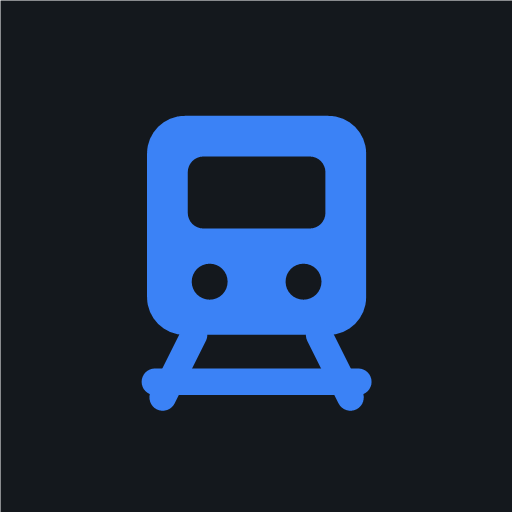
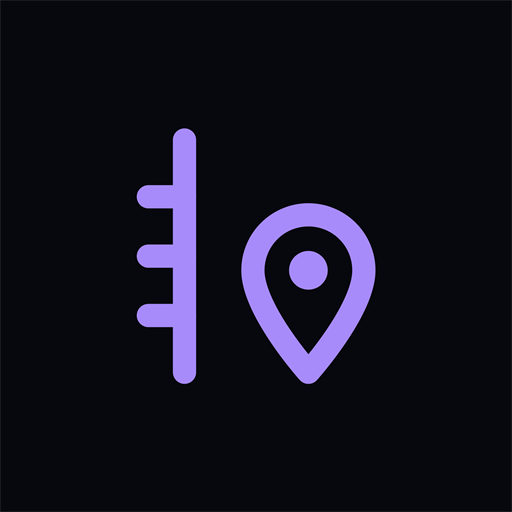
Aus Railnav wird TrackPilot
Geo++ vertreibt unter db.geopp.de ein kommerzielles Produkt namens RaiLNav
(Android-App und Web-Dienst fuer das Netz der DB InfraGO). Damit diese App
nicht wie eine Kopie davon aussieht, heisst sie ab jetzt TrackPilot; Repo,
Pages-Pfad, Manifest, Titel und Cache-Namen ziehen mit.

Drei Bezeichner behalten den alten Namen, weil sie an gespeicherten
Nutzerdaten haengen und die am Origin liegen, nicht am Pfad: der alte
localStorage-Schluessel (wird beim ersten Start uebernommen), die
IndexedDB mit den importierten KML-Dateien, und der Cache-Praefix, damit
der alte Bestand ueberhaupt noch aufgeraeumt werden kann.

Das App-Icon nimmt jetzt das Kachel-Motiv der Uebersichtsseite auf --
Kilometerstein und Markierung statt des Zuges, damit Kachel und
Startbildschirm dasselbe zeigen. icon.svg ist die Vorlage, make-icons.ps1
rasterisiert daraus die PNGs.

Changed region(s): [[0.25, 0.2188, 0.75, 0.8125], [0.0, 0.0, 0.0312, 0.0312]]

diff --git a/app.js b/app.js
@@ -1,4 +1,4 @@
-/* Railnav — Streckenkilometer auf der Karte
+/* TrackPilot — Streckenkilometer auf der Karte
  *
  * Zwei Richtungen:
  *   Strecke + km  → Position   (OpenRailwayMap-API, dazwischen wird interpoliert)
@@ -91,7 +91,10 @@ const LIVE_MIN_WEG = 5;
  * Aus den Kacheln lassen sich die Punkte ohnehin der Strecke zuordnen, auf der
  * sie stehen; damit ist der weite Radius unbedenklich. */
 const SEED_RADIUS = 12000;
-const STORE_KEY = 'railnav.v3';
+const STORE_KEY = 'trackpilot.v3';
+/* Vorgaengername der App. Wird beim ersten Start uebernommen, damit
+ * Einstellungen und Verlauf die Umbenennung ueberleben. */
+const STORE_KEY_ALT = 'railnav.v3';
 
 /* Mehrere Instanzen, weil einzelne zeitweise ausfallen: Die Hauptinstanz war
  * zwischenzeitlich aus dem Testnetz gar nicht erreichbar (HTTP 406), kumi hat
@@ -1896,6 +1899,9 @@ function wmsLogin() {
  *
  * Die Dateien bleiben auf dem Gerät, es wird nichts hochgeladen. */
 
+/* Bewusst beim alten Namen belassen: die Datenbank haengt am Origin, nicht am
+ * Pfad. Ein neuer Name wuerde die bereits importierten KML-Dateien verwaisen
+ * lassen, ohne dass der Nutzer etwas davon haette. */
 const KML_DB = 'railnav-kml';
 /* Reihum vergeben, damit sich mehrere Dateien ohne eigene Farbangabe
  * voneinander unterscheiden. */
@@ -4707,7 +4713,8 @@ function liveLeiste() {
 
 function loadStore() {
   try {
-    const raw = JSON.parse(localStorage.getItem(STORE_KEY) || '{}');
+    const roh = localStorage.getItem(STORE_KEY) || localStorage.getItem(STORE_KEY_ALT);
+    const raw = JSON.parse(roh || '{}');
     const wms = { ...prefs.wms, ...((raw.prefs && raw.prefs.wms) || {}) };
     prefs = { ...prefs, ...(raw.prefs || {}), wms };
     recent = Array.isArray(raw.recent) ? raw.recent : [];
@@ -4715,7 +4722,10 @@ function loadStore() {
 }
 
 function saveStore() {
-  try { localStorage.setItem(STORE_KEY, JSON.stringify({ prefs, recent })); } catch { /* voll oder gesperrt */ }
+  try {
+    localStorage.setItem(STORE_KEY, JSON.stringify({ prefs, recent }));
+    localStorage.removeItem(STORE_KEY_ALT);   // ab jetzt nur noch der neue Schluessel
+  } catch { /* voll oder gesperrt */ }
 }
 
 function pushRecent(ref, km) {
@@ -4836,7 +4846,7 @@ async function share() {
     ? `Strecke ${view.ref} · ${reihe.length} Kilometer`
     : view.point && view.km != null
       ? `Strecke ${view.ref} km ${fmtKm(view.km)}`
-      : 'Railnav';
+      : 'TrackPilot';
   if (navigator.share) {
     try { await navigator.share({ title, text: title, url }); return; }
     catch { /* abgebrochen — dann kopieren */ }

diff --git a/sw.js b/sw.js
@@ -1,16 +1,21 @@
-/* Railnav — Service Worker
+/* TrackPilot — Service Worker
  *
  * Ziel: Die App startet auch ohne Netz, und bereits angesehene Kartenkacheln
  * bleiben sichtbar. Für alles Eigene gilt "erst Netz, dann Cache", damit eine
  * neue Version sofort ankommt statt hinter einem alten Cache zu hängen.
  */
 
-const VERSION = 'v21';
-const SHELL = `railnav-shell-${VERSION}`;
-const TILES = `railnav-tiles-${VERSION}`;
-const DATA = `railnav-data-${VERSION}`;
-const NETZ = `railnav-netz-${VERSION}`;
+const VERSION = 'v22';
+const SHELL = `trackpilot-shell-${VERSION}`;
+const TILES = `trackpilot-tiles-${VERSION}`;
+const DATA = `trackpilot-data-${VERSION}`;
+const NETZ = `trackpilot-netz-${VERSION}`;
 const KEEP = [SHELL, TILES, DATA, NETZ];
+
+/* Die App hiess bis zur Umbenennung "Railnav" und lag unter /railnav/. Die
+ * Caches von damals liegen auf derselben Herkunft und wuerden sonst ewig
+ * liegenbleiben - deshalb wird der alte Praefix hier mit aufgeraeumt. */
+const ALT_PRAEFIX = 'railnav-';
 
 const SHELL_FILES = [
   './', 'index.html', 'style.css', 'app.js',
@@ -40,7 +45,9 @@ self.addEventListener('install', event => {
 self.addEventListener('activate', event => {
   event.waitUntil((async () => {
     const names = await caches.keys();
-    await Promise.all(names.filter(n => n.startsWith('railnav-') && !KEEP.includes(n)).map(n => caches.delete(n)));
+    await Promise.all(names
+      .filter(n => (n.startsWith('trackpilot-') || n.startsWith(ALT_PRAEFIX)) && !KEEP.includes(n))
+      .map(n => caches.delete(n)));
     await self.clients.claim();
   })());
 });

diff --git a/index.html b/index.html
@@ -3,7 +3,7 @@
 <head>
 <meta charset="UTF-8">
 <meta name="viewport" content="width=device-width, initial-scale=1.0, viewport-fit=cover">
-<title>Railnav — Streckenkilometer auf der Karte</title>
+<title>TrackPilot — Streckenkilometer auf der Karte</title>
 <meta name="description" content="Streckennummer und Kilometer eingeben, Position auf der Karte sehen, per Klick auf die Karte den Kilometer ablesen und in Google Maps öffnen.">
 <meta name="theme-color" content="#14181d">
 <meta name="color-scheme" content="dark light">
@@ -11,7 +11,7 @@
 <link rel="icon" href="icon.svg" type="image/svg+xml">
 <link rel="apple-touch-icon" href="icons/icon-180.png">
 <meta name="apple-mobile-web-app-capable" content="yes">
-<meta name="apple-mobile-web-app-title" content="Railnav">
+<meta name="apple-mobile-web-app-title" content="TrackPilot">
 <link rel="stylesheet" href="vendor/leaflet.css">
 <link rel="stylesheet" href="style.css">
 </head>
@@ -231,7 +231,7 @@
       <p class="fine">Daten © OpenStreetMap-Mitwirkende · Abfrage über die OpenRailwayMap-API ·
       Bahn-Layer OpenRailwayMap (CC-BY-SA 2.0) · Luftbild Esri · DOP20, Geländerelief und
       Parzellarkarte: Bayerische Vermessungsverwaltung (CC BY 4.0)</p>
-      <p class="fine"><a href="https://github.com/steidlmichael2000-stack/railnav" target="_blank" rel="noopener">Quellcode auf GitHub</a></p>
+      <p class="fine"><a href="https://github.com/steidlmichael2000-stack/trackpilot" target="_blank" rel="noopener">Quellcode auf GitHub</a></p>
     </details>
 
   </div>

diff --git a/style.css b/style.css
@@ -1,4 +1,4 @@
-/* Railnav — Vollflächenkarte mit schwebender Bedienung
+/* TrackPilot — Vollflächenkarte mit schwebender Bedienung
    Farben laufen über Custom Properties, damit Hell/Dunkel an einer Stelle sitzt. */
 
 :root {

diff --git a/werkzeug/netz-bauen.py b/werkzeug/netz-bauen.py
@@ -1,7 +1,7 @@
 #!/usr/bin/env python3
 """Baut die mitgelieferten Netzkacheln aus OpenStreetMap.
 
-Railnav brauchte fuer zwei Fragen den fremden Dienst Overpass: "welche Strecke
+TrackPilot brauchte fuer zwei Fragen den fremden Dienst Overpass: "welche Strecke
 liegt hier" und "wie verlaeuft das Gleis zwischen diesen beiden Steinen".
 Overpass ist haeufig ueberlastet -- gemessen bis zu 92 s, bis alle drei
 Instanzen aufgegeben hatten. Beide Fragen beantwortet die App jetzt aus
@@ -67,7 +67,7 @@ ZEITGRENZE = 90        # Sekunden je Abruf; laenger heisst nur laenger warten
 # Werkzeugs reicht dafuer; eine Adresse mit Kontoname stand hier vorher und
 # hat den Betreiber nichts angegangen. Wer eine Kontaktmoeglichkeit angeben
 # will, traegt sie hier ein.
-KENNUNG = 'railnav-netz-bauen/1.0'
+KENNUNG = 'trackpilot-netz-bauen/1.0'
 
 # Zwei Durchgaenge, und zwar getrennt, damit eine Aenderung am zweiten nicht
 # den ganzen ersten neu holen muss.

diff --git a/README.md b/README.md
@@ -1,4 +1,4 @@
-# Railnav
+# TrackPilot
 
 Streckennummer und Kilometer eingeben — Position auf der Karte sehen und in Google Maps öffnen.
 Oder umgekehrt: auf eine Stelle der Karte lange drücken und ablesen, welcher Kilometer das ist.
@@ -6,7 +6,7 @@ Oder umgekehrt: auf eine Stelle der Karte lange drücken und ablesen, welcher Ki
 Eine einzelne statische Webseite, kein Server, keine Anmeldung. Läuft auf dem Handy genauso wie
 am Rechner und lässt sich als App auf den Startbildschirm legen.
 
-**→ [steidlmichael2000-stack.github.io/railnav](https://steidlmichael2000-stack.github.io/railnav/)**
+**→ [steidlmichael2000-stack.github.io/trackpilot](https://steidlmichael2000-stack.github.io/trackpilot/)**
 
 ## Was es kann
 
@@ -285,7 +285,7 @@ danebenlag und wie weit der jeweils nächstgelegene Stein entfernt war:
 
 *Median über 1128 Fälle; insgesamt schneidet die Interpolation in 95 % besser ab (23 m gegenüber
 176 m).* Interpolieren ist also praktisch immer die bessere Wahl — nur wo ohnehin alle 100 m ein
-Stein steht, ist es fast egal. Deshalb interpoliert Railnav grundsätzlich und fällt nur dann auf
+Stein steht, ist es fast egal. Deshalb interpoliert TrackPilot grundsätzlich und fällt nur dann auf
 den nächstgelegenen Stein zurück, wenn es kein brauchbares Steinpaar gibt.
 
 ### Und umgekehrt: Wie genau ist ein Tipp auf die Karte?
@@ -574,11 +574,11 @@ Verbindungslinie zwischen den Angaben bei km 10,759 und 12,6.
 
 1. **Die API antwortet unsortiert.** Sie liefert Steine im Umkreis von 10 km um die angefragte
    Position und kappt bei `limit`. Mit `limit=1` bekommt man deshalb einen quasi beliebigen Stein
-   aus diesem Fenster — für Strecke 5100 km 12,5 etwa den bei km 20,8. Railnav lädt bis zu 200
+   aus diesem Fenster — für Strecke 5100 km 12,5 etwa den bei km 20,8. TrackPilot lädt bis zu 200
    Steine und sucht das passende Paar selbst.
 2. **Streckennummern tauchen mehrfach auf.** Auf Strecke 4201 liegen Steine, deren Kilometerwerte
    nur 165 m auseinanderliegen, geografisch aber 28 km. Ohne Prüfung würde quer durchs Land
-   interpoliert. Railnav verwirft Paare, deren Luftlinie länger ist als die Kilometerdifferenz
+   interpoliert. TrackPilot verwirft Paare, deren Luftlinie länger ist als die Kilometerdifferenz
    zulässt.
 
 ## Amtliche bayerische Dienste

diff --git a/CLAUDE.md b/CLAUDE.md
@@ -1,0 +1,42 @@
+# TrackPilot
+
+Streckennummer und Kilometer eingeben, Position auf der Karte sehen.
+Live unter <https://steidlmichael2000-stack.github.io/trackpilot/>.
+
+## Die App hieß bis September 2026 „Railnav"
+
+Umbenannt am 15.09.2026, weil Geo++ unter <https://db.geopp.de/gnportal/> ein
+kommerzielles Produkt namens **RaiLNav** vertreibt (Android-App und Web-Dienst
+für das Streckennetz der DB InfraGO). Der alte Name darf nirgends wieder
+auftauchen — weder als Produktname noch in Texten, Titeln oder Repo-Pfaden.
+
+Mit umgezogen sind: Repo-Name, GitHub-Pages-Pfad (`/railnav/` → `/trackpilot/`),
+`manifest.webmanifest` (`name`, `short_name`, `id`), Seitentitel, README und
+alle Cache-Namen im Service Worker.
+
+### Drei Stellen tragen den alten Namen absichtlich weiter
+
+Nicht „aufräumen" — sie hängen an gespeicherten Nutzerdaten, und die liegen am
+Origin, nicht am Pfad. Ein neuer Name würde sie verwaisen lassen:
+
+| Stelle | Datei | Warum |
+|---|---|---|
+| `STORE_KEY_ALT = 'railnav.v3'` | `app.js` | Einstellungen und Verlauf werden beim ersten Start übernommen und danach unter dem neuen Schlüssel gespeichert. |
+| `KML_DB = 'railnav-kml'` | `app.js` | Enthält die vom Nutzer importierten KML-Dateien. Ein neuer Datenbankname würde sie unerreichbar machen. |
+| `ALT_PRAEFIX = 'railnav-'` | `sw.js` | Räumt die Caches der alten Fassung weg, die sonst dauerhaft auf dem Gerät lägen. |
+
+Der Migrationspfad für `STORE_KEY_ALT` darf frühestens weg, wenn sicher ist,
+dass niemand mehr eine Fassung von vor der Umbenennung installiert hat.
+
+## Icons
+
+`icon.svg` ist die Vorlage, `make-icons.ps1` rasterisiert daraus die PNGs in
+`icons/`. Motiv und Strichführung sind **dieselben wie beim Kachel-Icon auf der
+Übersichtsseite** (`steidlmichael2000-stack.github.io`, `index.html`, Karte
+`.card-rail`) — wer das eine ändert, ändert auch das andere, sonst fällt die
+Icon-Familie wieder auseinander.
+
+## Beim Deployen
+
+`VERSION` in `sw.js` hochzählen. Der Worker arbeitet zwar „erst Netz, dann
+Cache", aber die Kachel- und Netzdaten-Caches hängen an der Version.
